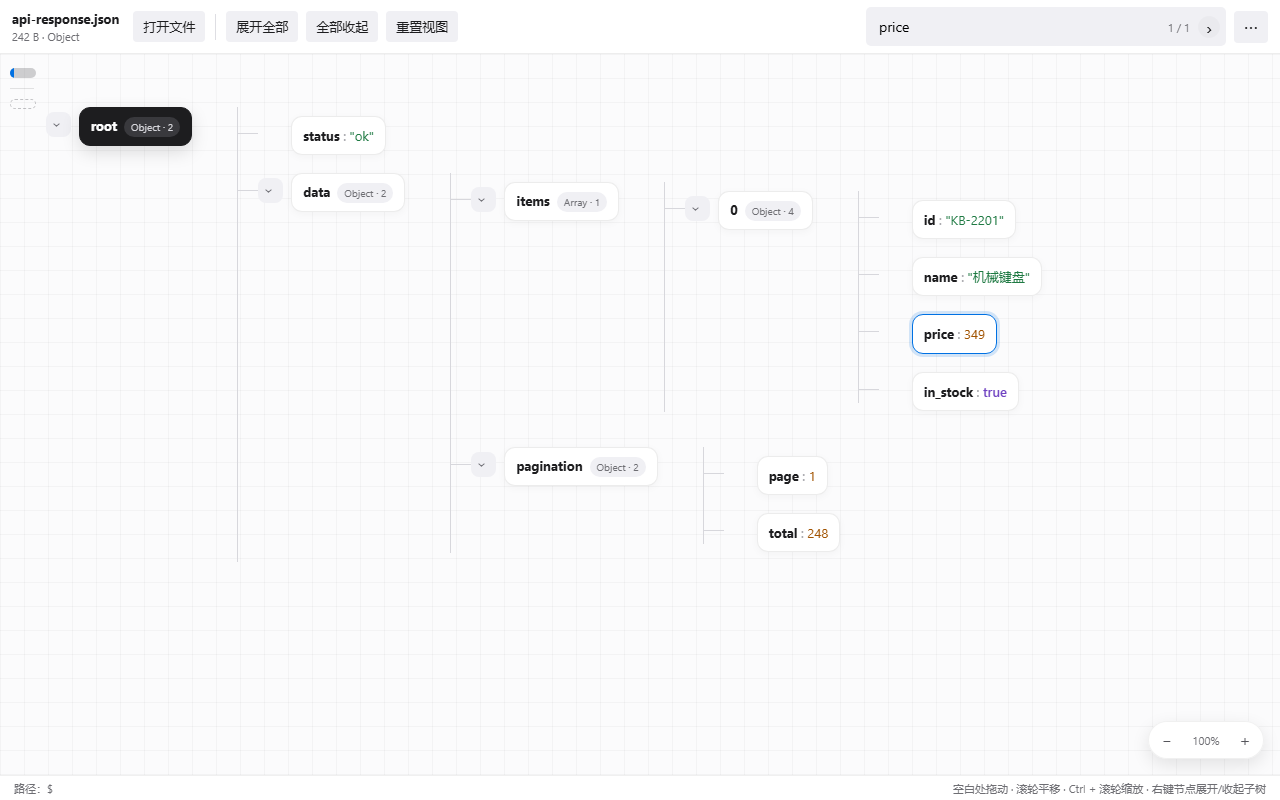
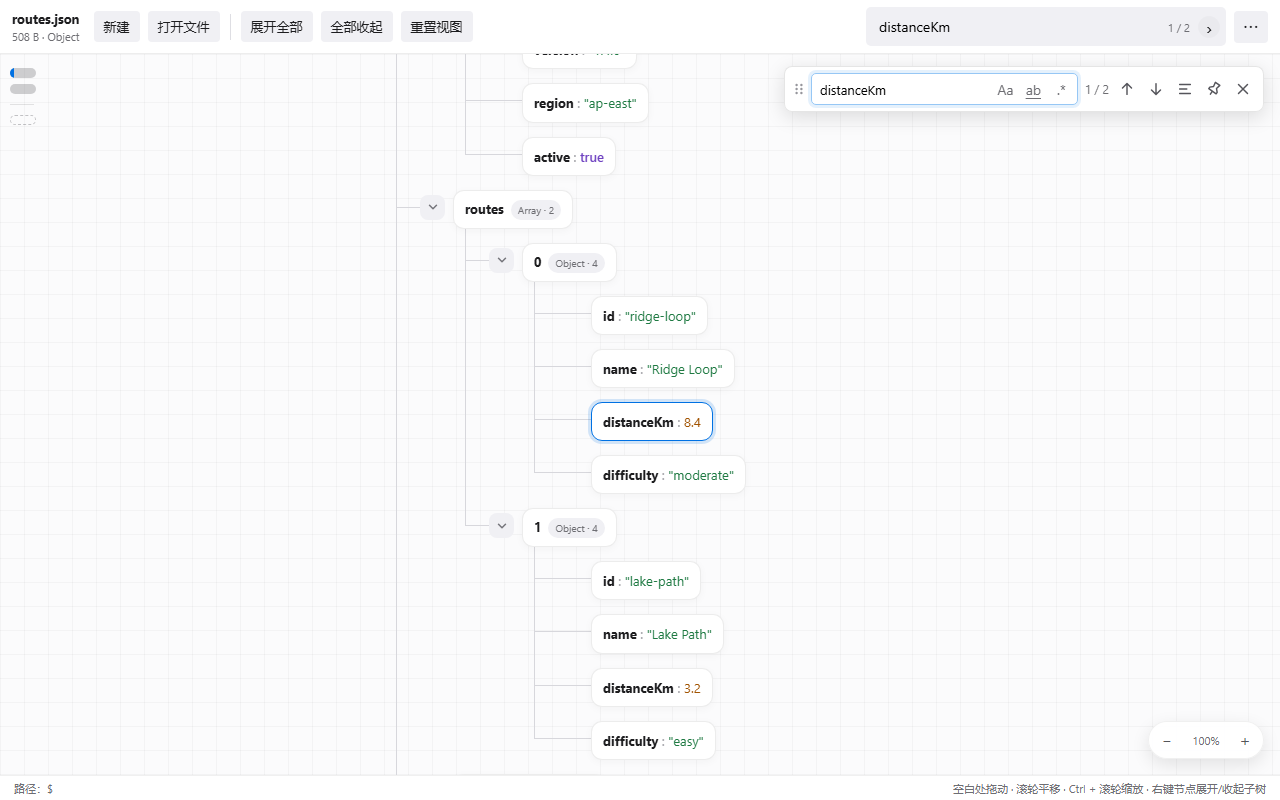
feat: 添加设计模式和性能设置截图，更新页面描述与样式

diff --git a/site/index.html b/site/index.html
@@ -4,7 +4,7 @@
   <meta charset="UTF-8" />
   <meta name="viewport" content="width=device-width, initial-scale=1" />
   <title>JSON Atlas · 看清 JSON 的每一层</title>
-  <meta name="description" content="用可交互的树形画布阅读 JSON / JSONL，搜索字段、展开嵌套结构，并在小文件中编辑文本。免费开源，文件在本机处理。" />
+  <meta name="description" content="在树形画布中查找、编辑和设计 JSON，按页阅读大型 JSON 与 JSONL。支持多文件会话恢复和内存管理，文件在本机处理。" />
   <meta name="theme-color" content="#f7f8fa" />
   <link rel="icon" href="assets/app-icon.png" />
   <link rel="canonical" href="https://the-cute-cat.github.io/json-atlas/" />
@@ -12,7 +12,7 @@
   <meta property="og:locale" content="zh_CN" />
   <meta property="og:url" content="https://the-cute-cat.github.io/json-atlas/" />
   <meta property="og:title" content="JSON Atlas · 看清 JSON 的每一层" />
-  <meta property="og:description" content="从接口响应到 JSONL 记录，在树形画布里展开、搜索和阅读。免费开源，文件在本机处理。" />
+  <meta property="og:description" content="展开并搜索 JSON 与 JSONL，在画布中设计结构，或切换到 IDE 编辑。桌面版支持磁盘索引和多文件会话恢复。" />
   <meta property="og:image" content="https://the-cute-cat.github.io/json-atlas/assets/screenshots/hero.png" />
   <meta property="og:image:alt" content="JSON Atlas 的树形画布与字段搜索界面" />
   <meta name="twitter:card" content="summary_large_image" />
@@ -23,58 +23,75 @@
   <header class="nav">
     <div class="wrap nav-inner">
       <a class="brand" href="#"><img src="assets/app-icon.png" width="32" height="32" alt="" /><span>JSON Atlas</span></a>
-      <nav aria-label="主导航"><a href="#workflow">功能</a><a href="#editions">版本选择</a><a href="https://github.com/The-cute-cat/json-atlas">GitHub <span aria-hidden="true">↗</span></a></nav>
+      <nav aria-label="主导航"><a href="#workflow">功能</a><a href="#performance">大文件与内存</a><a href="#editions">下载与试用</a><a href="https://github.com/The-cute-cat/json-atlas">GitHub <span aria-hidden="true">↗</span></a></nav>
       <a class="nav-try" href="app.html">在线试用 <span aria-hidden="true">↗</span></a>
     </div>
   </header>
   <main id="main">
     <section class="hero wrap">
       <div class="hero-copy">
-        <p class="eyebrow"><span class="dot"></span> JSON / JSONL 的本地阅读工作台</p>
+        <p class="eyebrow"><span class="dot"></span> 本地 JSON / JSONL 阅读与编辑</p>
         <h1>看清 JSON 的<br /><span>每一层。</span></h1>
-        <p class="lede">接口响应、嵌套配置、逐行记录。把结构展开成树，在字段和值之间查找，让阅读有迹可循。</p>
-        <div class="actions"><a class="button primary" href="app.html">在浏览器中试用 <span aria-hidden="true">→</span></a><a class="button secondary" href="https://github.com/The-cute-cat/json-atlas/releases/latest">下载 Windows 版</a></div>
+        <p class="lede">把接口响应、配置和逐行记录展开成树，按键名或值定位字段。需要调整结构时，在画布中设计 JSON，或切换到 IDE 编辑原文。</p>
+        <div class="actions"><a class="button primary" href="app.html">在浏览器中试用 <span aria-hidden="true">→</span></a><a class="button secondary" href="#editions">下载 Windows 版</a></div>
         <p class="hero-note">免费开源 · 无需账号 · 文件在本机解析</p>
       </div>
       <aside class="outline" aria-label="阅读流程">
-        <div class="outline-head"><span class="code">{ }</span><span>从结构到内容</span><span class="outline-label">JSON ATLAS</span></div>
-        <ol><li><span>01</span><div><strong>展开结构</strong><p>保留上下文，逐层查看对象和数组</p></div></li><li><span>02</span><div><strong>定位字段</strong><p>搜索键名或值，跳到对应节点</p></div></li><li><span>03</span><div><strong>阅读与修改</strong><p>查看路径，或切换到文本编辑</p></div></li></ol>
+        <div class="outline-head"><span class="code">{ }</span><span>从结构到内容</span></div>
+        <ol><li><span>01</span><div><strong>展开结构</strong><p>保留上下文，逐层查看对象和数组</p></div></li><li><span>02</span><div><strong>定位字段</strong><p>搜索键名或值，跳到对应节点</p></div></li><li><span>03</span><div><strong>阅读与修改</strong><p>在画布中添加主题，或切换到 IDE 编辑</p></div></li></ol>
         <a href="app.html">打开试用版，选择一个本地文件 <span aria-hidden="true">↗</span></a>
       </aside>
     </section>
     <figure class="product wrap">
-      <div class="image-frame"><div class="image-label"><span><span class="dot"></span> 树形画布</span><span>展开 · 查找 · 定位</span></div><a href="assets/screenshots/hero.png" aria-label="查看树形画布原图"><img src="assets/screenshots/hero.png" width="1280" height="800" alt="在 JSON Atlas 中展开示例接口响应，并搜索目标字段" fetchpriority="high" /></a></div>
-      <figcaption>真实应用界面，使用虚构示例数据。点击图片查看原图。</figcaption>
+      <div class="image-frame"><div class="image-label"><span><span class="dot"></span> 树形画布</span><span>展开 · 查找 · 定位</span></div><a href="assets/screenshots/hero.png" aria-label="查看树形画布原图"><img src="assets/screenshots/hero.png" width="1280" height="800" alt="在树形画布中展开路线数据，用浮动搜索栏定位 distanceKm 字段" fetchpriority="high" /></a></div>
+      <figcaption>在示例路线数据中查找距离字段。截图使用虚构数据。</figcaption>
     </figure>
     <section id="workflow" class="section wrap">
-      <div class="section-heading"><p class="eyebrow">READ · FIND · EDIT</p><h2>跟着结构读，带着问题找。</h2><p>从陌生的响应结构开始，逐步缩小到你关心的内容。</p></div>
+      <div class="section-heading"><h2>阅读、查找与编辑</h2></div>
       <div class="features">
-        <article><span class="feature-number">01 / 阅读</span><h3>复杂结构，按需展开</h3><p>对象与数组以卡片呈现，支持平移、缩放和字段隐藏。字符串中的内嵌 JSON 也可以展开阅读。</p></article>
-        <article><span class="feature-number">02 / 查找</span><h3>找到值，也找到它的位置</h3><p>搜索键名或值，支持大小写、全词和常用正则。可限定到选中分支，命中后定位到节点并查看路径。</p></article>
-        <article><span class="feature-number">03 / 编辑</span><h3>在画布与文本之间切换</h3><p>小文件支持节点值编辑、IDE 文本编辑、格式化和最近 10 步撤销。浏览器保存下载副本，桌面版支持写回文件。</p></article>
+        <article><h3>逐层阅读对象与数组</h3><p>在画布上平移、缩放和展开节点，也能读取字符串中嵌入的 JSON。隐藏规则可在设置中按文件名或路径搜索，也能在当前画布中临时屏蔽匹配的规则。</p></article>
+        <article><h3>按键名或值查找</h3><p>搜索键名或值，支持大小写、全词和常用正则。可限定到选中分支，命中后定位到节点并查看路径。</p></article>
+        <article><h3>设计结构，编辑原文</h3><p>新建空白 JSON，或对符合大小限制的 JSON 启用设计模式，在画布中添加、重命名或删除主题。IDE 支持高亮、折叠和格式化。当前开发版提供重做及最多 50 步撤销。</p></article>
       </div>
-      <div class="views"><figure><a href="assets/screenshots/tree-view.png"><img src="assets/screenshots/tree-view.png" alt="在树形画布中展开的示例接口响应" width="1280" height="800" loading="lazy" /></a><figcaption><strong>树形视图</strong><span>展开结构，保留阅读上下文</span></figcaption></figure><figure><a href="assets/screenshots/ide-view.png"><img src="assets/screenshots/ide-view.png" alt="带行号、语法高亮和折叠的 IDE 文本视图" width="1280" height="800" loading="lazy" /></a><figcaption><strong>IDE 视图</strong><span>需要修改原文时，切换到文本</span></figcaption></figure></div>
+      <div class="views"><figure><a href="assets/screenshots/design-view.png" aria-label="查看设计模式原图"><img src="assets/screenshots/design-view.png" alt="设计模式的嵌套对象、添加按钮和主题右键菜单" width="1280" height="800" loading="lazy" /></a><figcaption><strong>设计模式</strong><span>添加子主题、重命名和调整结构</span></figcaption></figure><figure><a href="assets/screenshots/ide-view.png"><img src="assets/screenshots/ide-view.png" alt="带行号、语法高亮、括号引导线和搜索命中高亮的 IDE 视图" width="1280" height="800" loading="lazy" /></a><figcaption><strong>IDE 视图</strong><span>需要修改原文时，切换到文本</span></figcaption></figure></div>
+    </section>
+    <section id="performance" class="section performance wrap" aria-labelledby="performance-title">
+      <div class="section-heading">
+        <h2 id="performance-title">按页阅读大文件，按需载入标签</h2>
+        <p>在「设置 → 性能与内存」调整大文件阈值、索引重建方式和后台文件释放策略。</p>
+      </div>
+      <div class="features">
+        <article><h3>桌面磁盘索引</h3><p>超过阈值时切换到只读树形视图，磁盘索引每页读取 100 项。智能重建可复用已有索引，并在内容显示后校验文件。</p></article>
+        <article><h3>恢复上次的阅读位置</h3><p>启用会话恢复后，可找回每个文件的展开状态、视图位置和 IDE 光标。小内存模式启动时只载入上次活动的文件，其余标签选中时再载入。</p></article>
+        <article><h3>释放后台文件</h3><p>可按闲置时间、载入数量上限或手动操作释放后台文件，保留标签和阅读位置。正在阅读、有未保存修改或撤销记录的文件会保留。</p></article>
+      </div>
+      <figure class="performance-shot">
+        <a class="image-frame" href="assets/screenshots/performance-settings.png" aria-label="查看性能与内存设置原图"><img src="assets/screenshots/performance-settings.png" width="1280" height="800" loading="lazy" alt="性能与内存设置，显示文件载入数量、索引子页缓存、后台释放按钮和同时载入上限" /></a>
+        <figcaption>性能与内存设置中的文件载入状态和释放策略</figcaption>
+      </figure>
     </section>
     <section id="editions" class="editions section">
       <div class="wrap">
-        <div class="section-heading"><p class="eyebrow">选择适合你的入口</p><h2>先试用，再带回桌面。</h2><p>两种方式共用阅读界面；文件处理能力取决于运行环境。</p></div>
+        <div class="section-heading"><h2>下载与试用</h2><p>介绍页和在线试用版随当前代码构建。小内存模式、后台释放等近期功能以<a href="https://github.com/The-cute-cat/json-atlas/blob/main/CHANGELOG.md">更新记录</a>的「未发布」章节为准，桌面下载包以对应版本说明为准。</p></div>
         <div class="edition-grid">
-          <article class="edition"><div class="edition-title"><h3>浏览器版</h3><span class="pill">即开即用</span></div><p>先用一份小文件，感受树形阅读与搜索。</p><ul><li>在浏览器本地解析文件，不上传文件内容</li><li>支持树形阅读、查找与小文件编辑</li><li>保存时下载修改后的副本</li><li>无磁盘索引，单文件上限 256 MiB；建议先试用小文件</li></ul><a class="button secondary" href="app.html">打开浏览器版 <span aria-hidden="true">→</span></a><p class="edition-note">可将试用页另存为 HTML，离线打开。浏览器限制可能影响后台任务。</p></article>
-          <article class="edition desktop"><div class="edition-title"><h3>Windows 桌面版</h3><span class="pill">完整文件工作流</span></div><p>适合经常阅读本地文件，或处理较大的数据。</p><ul><li>支持本地文件打开、保存与文件关联</li><li>超过阈值时后台扫描，建立临时磁盘索引</li><li>索引模式每页 100 项，按需加载；大文件只读</li><li>默认索引阈值 64 MiB，可在设置中调整</li></ul><a class="button primary" href="https://github.com/The-cute-cat/json-atlas/releases/latest">查看 Windows 安装包 <span aria-hidden="true">↗</span></a><p class="edition-note">Windows 10 / 11 x64 · 需要 WebView2。首次扫描耗时取决于文件与设备。</p></article>
+          <article class="edition"><div class="edition-title"><h3>浏览器版</h3><span class="pill">即开即用</span></div><p>先用一份小文件，感受树形阅读与搜索。</p><ul><li>在浏览器本地解析文件，不上传文件内容</li><li>支持树形阅读、查找与小文件编辑</li><li>保存时下载修改后的副本</li><li>默认读取上限 64 MiB，可在设置中调到 256 MiB</li></ul><a class="button secondary" href="app.html">打开浏览器版 <span aria-hidden="true">→</span></a><p class="edition-note">可将试用页另存为 HTML，离线打开。浏览器限制可能影响后台任务。</p></article>
+          <article class="edition desktop"><div class="edition-title"><h3>Windows 桌面版</h3><span class="pill">完整文件工作流</span></div><p>适合经常阅读本地文件，或处理较大的数据。</p><ul><li>支持本地文件打开、保存与文件关联</li><li>超过阈值的大型 JSON 和 JSONL 可建立磁盘索引</li><li>默认阈值 64 MiB，可选 32、128 或 256 MiB</li><li>提供安装包和免安装版</li></ul><a class="button primary" href="https://github.com/The-cute-cat/json-atlas/releases">查看 Windows 下载 <span aria-hidden="true">↗</span></a><p class="edition-note">Windows 10 / 11 x64 · 需要 WebView2。可在发布页选择稳定版，或查看 <a href="https://github.com/The-cute-cat/json-atlas/releases/tag/v0.5.0-beta.1">0.5.0-beta.1 预发布版</a>。</p></article>
         </div>
+        <p class="platform-note">macOS 15 及以上的 Apple 芯片设备可试用 <a href="https://github.com/The-cute-cat/json-atlas/actions/workflows/macos-preview.yml">macOS 测试构建</a>。下载构建产物需要登录 GitHub。</p>
       </div>
     </section>
     <section class="section wrap faq-section">
       <div class="section-heading"><p class="eyebrow">使用前了解</p><h2>几个你可能关心的问题。</h2></div>
       <div class="faq">
         <details><summary>文件会传到服务器吗？</summary><p>应用在本机解析、搜索和编辑文件，不提供文件上传或云同步。在线版首次打开需要从站点加载程序和图片；保存后的单文件 HTML 可以离线运行。</p></details>
-        <details><summary>支持 JSONL 和有问题的行吗？</summary><p>支持 .jsonl、.ndjson 和 .jsonlines。JSONL 加载会记录并跳过无法解析的行；如果跳过了坏行，保存时请使用“另存为”，保留原始记录。请先用副本验证自己的数据。</p></details>
-        <details><summary>能编辑多大的文件？</summary><p>编辑功能面向内存模式的小文件。桌面磁盘索引模式保持只读；IDE 视图另有字符数、行数与结构复杂度限制，超出后会回退到树形视图。具体限制见 <a href="https://github.com/The-cute-cat/json-atlas#大文件与已知限制">使用说明</a>。</p></details>
+        <details><summary>支持 JSONL 和有问题的行吗？</summary><p>支持 .jsonl、.ndjson 和 .jsonlines。默认跳过无法解析的行，也可在设置中启用严格模式。如果跳过了坏行，请用「另存为」保留原始文件。</p></details>
+        <details><summary>能编辑多大的文件？</summary><p>树形编辑和 IDE 面向以内存方式载入的文件。设计模式适用于小于设定上限的 JSON，默认 8 MiB，最高可设为 32 MiB。磁盘索引模式提供只读树形视图。</p></details>
+        <details><summary>未保存的设计能恢复吗？</summary><p>设计中的未保存修改会在本机暂存，重启时可以恢复。保存或确认放弃修改后，应用会移除对应草稿。</p></details>
         <details><summary>遇到问题，怎样提供有效反馈？</summary><p>请在 <a href="https://github.com/The-cute-cat/json-atlas/issues">GitHub Issues</a> 提供应用版本、系统、操作步骤和脱敏后的最小样例。也欢迎分享你实际使用的场景，或通过 Pull Request 改进文档与代码。</p></details>
       </div>
     </section>
     <section class="closing wrap"><div><p class="eyebrow">从你手上的一份 JSON 开始</p><h2>复杂数据，也能清楚地读。</h2></div><a class="button primary" href="app.html">立即试用 <span aria-hidden="true">→</span></a></section>
   </main>
-  <footer class="wrap"><a class="brand" href="#">JSON Atlas</a><span>免费开源 · Apache-2.0</span><nav aria-label="项目链接"><a href="https://github.com/The-cute-cat/json-atlas">源码</a><a href="https://github.com/The-cute-cat/json-atlas/blob/main/CHANGELOG.md">更新记录</a><a href="https://github.com/The-cute-cat/json-atlas/issues">反馈</a></nav></footer>
+  <footer class="wrap"><a class="brand" href="#">JSON Atlas</a><span>免费开源 · Apache-2.0</span><nav aria-label="项目链接"><a href="https://github.com/The-cute-cat/json-atlas">源码</a><a href="https://github.com/The-cute-cat/json-atlas/blob/main/docs/README.zh-CN.md">使用说明</a><a href="https://github.com/The-cute-cat/json-atlas/blob/main/CHANGELOG.md">更新记录</a><a href="https://github.com/The-cute-cat/json-atlas/issues">反馈</a></nav></footer>
 </body>
 </html>

diff --git a/site/style.css b/site/style.css
@@ -191,12 +191,6 @@ h1 span {
   font:600 20px Consolas,monospace;
   color:var(--accent)
 }
-.outline-label {
-  margin-left:auto;
-  color:var(--muted);
-  font:10px Consolas,monospace;
-  letter-spacing:.1em
-}
 .outline ol {
   list-style:none;
   padding:12px 24px;
@@ -292,11 +286,6 @@ h2 {
   border-top:1px solid var(--line);
   padding-top:24px
 }
-.feature-number {
-  font-size:11px;
-  color:var(--accent);
-  letter-spacing:.07em
-}
 .features h3 {
   font-size:18px;
   line-height:1.5;
@@ -333,6 +322,30 @@ h2 {
 .views strong {
   color:var(--ink);
   font-weight:600
+}
+.performance {
+  border-top:1px solid var(--line)
+}
+.performance-shot {
+  margin:36px auto 0;
+  max-width:900px
+}
+.performance-shot .image-frame {
+  display:block
+}
+.performance-shot figcaption {
+  margin-top:10px;
+  color:var(--muted);
+  font-size:12px
+}
+.platform-note {
+  margin:20px 0 0;
+  color:var(--muted);
+  font-size:13px
+}
+.platform-note a,.edition-note a,.section-heading p>a {
+  text-decoration:underline;
+  text-underline-offset:3px
 }
 .editions {
   background:#eef2f3;
